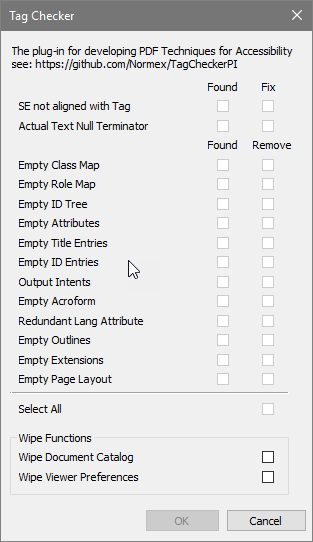
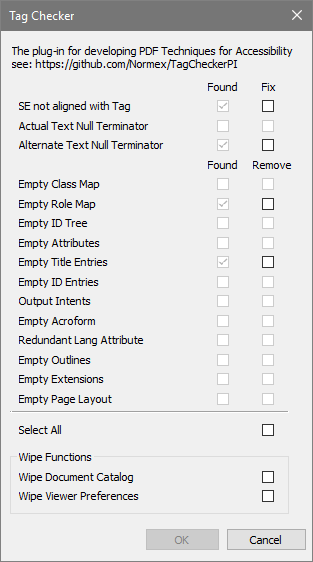
Refactoring & Alternate Text Null Terminator

diff --git a/sources/TagCheckerPI.cpp b/sources/TagCheckerPI.cpp
@@ -34,14 +34,13 @@ static ACCB1 ASBool ACCB2 GetKeysEnumProc(CosObj key, CosObj value, void* client
     return false;
 
   dictionary_keys* keys = reinterpret_cast<dictionary_keys*>(clientData);
-  std::vector<ASAtom>::iterator pos = std::find_if(keys->to_keep.begin(), keys->to_keep.end(),
-    [&key](const ASAtom& it) -> bool { return CosNameValue(key) == it; });
-  
+  auto it = std::find(keys->to_keep.begin(), keys->to_keep.end(), CosNameValue(key));
+ 
   //found, therefor return and do not add to to_remove keys
-  if (pos != keys->to_keep.end())
+  if (it != keys->to_keep.end())
     return true;
    
-  //not found in wanted keys therefor push to to_remove keys, which are to be deleted
+  //not found in to_keep keys therefor push to to_remove keys, which are to be deleted
   keys->to_remove.push_back(CosNameValue(key));
   return true;
 }
@@ -442,6 +441,49 @@ bool DoActualTextNullTerminator(bool perform_fix) {
   return DoStructureElement(perform_fix, actuals);
 }
 
+bool DoAlternateTextNullTerminator(bool perform_fix) {
+  ProcessStructureElementFunction alternates = [](bool perform_fix, PDSElement element,
+    ASAtom kid_type, PDSElement kid, PDSMCInfo mcid_info, PDSMC marked_content)
+  {
+    bool ret_val = false;
+
+    if (kid_type != ASAtomFromString("StructElem"))
+      return false;
+
+    ASInt32 len = PDSElementGetAlt(kid, NULL);
+    if (len <= 0)
+      return false;
+
+    ASUns8* actual_text = (ASUns8*)ASmalloc(len + 1);
+    PDSElementGetAlt(kid, actual_text);
+    if (len >= 2 && (actual_text[0] == 0xFF && actual_text[1] == 0xFE) ||
+      (actual_text[0] == 0xFE && actual_text[1] == 0xFF))
+    {
+      if (actual_text[len - 1] == '\0' && actual_text[len - 2] == '\0')
+        if (!perform_fix) ret_val = true; //stop processing the tree
+        else if (len == 2)
+        {
+          CosObj kid_obj = PDSElementGetCosObj(kid);
+          CosDictRemove(kid_obj, ASAtomFromString("Alt"));
+        }
+        else PDSElementSetAlt(kid, actual_text, len - 2);
+    }
+    else if (actual_text[len - 1] == '\0')
+    {
+      if (!perform_fix) ret_val = true; //stop processing the tree
+      else if (len == 1)
+      {
+        CosObj kid_obj = PDSElementGetCosObj(kid);
+        CosDictRemove(kid_obj, ASAtomFromString("Alt"));
+      }
+      else PDSElementSetAlt(kid, actual_text, len - 1);
+    }
+    ASfree(actual_text);
+    return ret_val;
+  };
+  return DoStructureElement(perform_fix, alternates);
+}
+
 //*****************************************************************************
 void CleanViewerPreferences() {
   CosObj catalog = CosDocGetRoot(PDDocGetCosDoc(AVDocGetPDDoc(AVAppGetActiveDoc())));
@@ -451,18 +493,20 @@ void CleanViewerPreferences() {
     return;
 
   dictionary_keys viewer_preferences_keys;
-  viewer_preferences_keys.to_keep.push_back(ASAtomFromString("DisplayDocTitle"));
+  viewer_preferences_keys.to_keep = {
+    ASAtomFromString("DisplayDocTitle")
+  };
 
   CosObjEnum(vp, GetKeysEnumProc, &viewer_preferences_keys);
 
   for (ASAtom key_to_remove : viewer_preferences_keys.to_remove)
   {
     CosDictRemove(vp, key_to_remove);
-#ifdef _DEBUG
-    OutputDebugString("Removed: ");
-    OutputDebugString(ASAtomGetString(key_to_remove));
-    OutputDebugString("\n");
-#endif // _DEBUG
+#ifdef DEBUG
+    char msgbuf[256];
+    sprintf_s(msgbuf, sizeof(msgbuf), "Removed from ViewerPreferences: %s\n", ASAtomGetString(key_to_remove));
+    OutputDebugString(msgbuf);
+#endif // DEBUG
   }
 }
 
@@ -473,13 +517,15 @@ void CleanDocumentCatalog() {
     return;
 
   dictionary_keys catalog_keys;
-  catalog_keys.to_keep.push_back(ASAtomFromString("Lang"));
-  catalog_keys.to_keep.push_back(ASAtomFromString("MarkInfo"));
-  catalog_keys.to_keep.push_back(ASAtomFromString("Metadata"));
-  catalog_keys.to_keep.push_back(ASAtomFromString("Pages"));
-  catalog_keys.to_keep.push_back(ASAtomFromString("StructTreeRoot"));
-  catalog_keys.to_keep.push_back(ASAtomFromString("Type"));
-  catalog_keys.to_keep.push_back(ASAtomFromString("ViewerPreferences"));
+  catalog_keys.to_keep = {
+    ASAtomFromString("Lang"),
+    ASAtomFromString("MarkInfo"),
+    ASAtomFromString("Metadata"),
+    ASAtomFromString("Pages"),
+    ASAtomFromString("StructTreeRoot"),
+    ASAtomFromString("Type"),
+    ASAtomFromString("ViewerPreferences"),
+  };
 
   CosObjEnum(catalog, GetKeysEnumProc, &catalog_keys);
 
@@ -487,9 +533,9 @@ void CleanDocumentCatalog() {
   {
     CosDictRemove(catalog, key_to_remove);
 #ifdef _DEBUG
-    OutputDebugString("Removed: ");
-    OutputDebugString(ASAtomGetString(key_to_remove));
-    OutputDebugString("\n");
+    char msgbuf[256];
+    sprintf_s(msgbuf, sizeof(msgbuf), "Removed from Catalog: %s\n", ASAtomGetString(key_to_remove));
+    OutputDebugString(msgbuf);
 #endif // _DEBUG
   }
 }

diff --git a/win32/TagCheckerDlg.cpp b/win32/TagCheckerDlg.cpp
@@ -12,7 +12,7 @@ const UINT fixIds[] =
   IDC_CHECK_FIX_2_3,  IDC_CHECK_FIX_2_4,  IDC_CHECK_FIX_2_5,
   IDC_CHECK_FIX_2_6,  IDC_CHECK_FIX_2_7,  IDC_CHECK_FIX_2_8,
   IDC_CHECK_FIX_2_9,  IDC_CHECK_FIX_2_10, IDC_CHECK_FIX_2_11,
-  IDC_CHECK_FIX_2_12, IDC_CHECK_FIX_1_2,
+  IDC_CHECK_FIX_2_12, IDC_CHECK_FIX_1_2,  IDC_CHECK_FIX_1_3,
   0
 };
 
@@ -45,7 +45,7 @@ BEGIN_MESSAGE_MAP(CTagCheckerDlg, CDialogEx)
   ON_WM_ACTIVATE()
   ON_BN_CLICKED(IDOK, &OnBnClickedOk)
   ON_BN_CLICKED(IDC_CHECK_FIX_ALL, &OnCheckFixAll)
-  ON_CONTROL_RANGE(BN_CLICKED, IDC_CHECK_FIX_1_1, IDC_CHECK_FIX_1_2, &OnCheckFix)
+  ON_CONTROL_RANGE(BN_CLICKED, IDC_CHECK_FIX_1_1, IDC_CHECK_FIX_1_3, &OnCheckFix)
   ON_CONTROL_RANGE(BN_CLICKED, IDC_CHECK_WIPE_1, IDC_CHECK_WIPE_2, &OnCheckWipe)
 END_MESSAGE_MAP()
 
@@ -91,6 +91,7 @@ void CTagCheckerDlg::OnBnClickedOk()
 {
   DoAllignSEWithMC(IsDlgButtonChecked(IDC_CHECK_FIX_1_1) == BST_CHECKED);
   DoActualTextNullTerminator(IsDlgButtonChecked(IDC_CHECK_FIX_1_2) == BST_CHECKED);
+  DoAlternateTextNullTerminator(IsDlgButtonChecked(IDC_CHECK_FIX_1_3) == BST_CHECKED);
 
   DoClassMap(IsDlgButtonChecked(IDC_CHECK_FIX_2_1) == BST_CHECKED);
   DoRoleMap(IsDlgButtonChecked(IDC_CHECK_FIX_2_2) == BST_CHECKED);
@@ -119,6 +120,7 @@ BOOL CTagCheckerDlg::OnInitDialog()
 
   CheckDlgButton(IDC_CHECK_FOUND_1_1, DoAllignSEWithMC());
   CheckDlgButton(IDC_CHECK_FOUND_1_2, DoActualTextNullTerminator());
+  CheckDlgButton(IDC_CHECK_FOUND_1_3, DoAlternateTextNullTerminator());
   CheckDlgButton(IDC_CHECK_FOUND_2_1, DoClassMap());
   CheckDlgButton(IDC_CHECK_FOUND_2_2, DoRoleMap());
   CheckDlgButton(IDC_CHECK_FOUND_2_3, DoIDTree());

diff --git a/win32/resource.h b/win32/resource.h
@@ -50,8 +50,9 @@
 #define IDC_CHECK_FIX_1_2               1039
 #define IDC_CHECK_FIX_ALL               1040
 #define IDC_CHECK_WIPE_1                1041
-#define IDC_CHECK_FIX_ALL3              1042
 #define IDC_CHECK_WIPE_2                1042
+#define IDC_CHECK_FOUND_1_3             1043
+#define IDC_CHECK_FIX_1_3               1044
 
 // Next default values for new objects
 // 

diff --git a/sources/TagCheckerPI.h b/sources/TagCheckerPI.h
@@ -22,6 +22,7 @@ bool DoExtensions(bool perform_fix = false);
 bool DoPageLayout(bool perform_fix = false);
 bool DoRedundantLangAttribute(bool perform_fix = false);
 bool DoActualTextNullTerminator(bool perform_fix = false);
+bool DoAlternateTextNullTerminator(bool perform_fix = false);
 void CleanViewerPreferences();
 void CleanDocumentCatalog();
 

diff --git a/README.md b/README.md
@@ -16,6 +16,7 @@ The current implementation is able to to perform following tasks:
 * Remove Extensions from the document catalog
 * Remove empty Page Layout
 * Remove the null terminator from Actual Text
+* Remove the null terminator from Alternate Text
 * Wipe the Document Catalog dictonary removing all entries except Lang, MarkInfo, Metadata, Pages, StructTreeRoot, Type, ViewerPreferences
 * Wipe the ViewerPreferences dictionary in the Document Catalog except DisplayDocTitle
 
